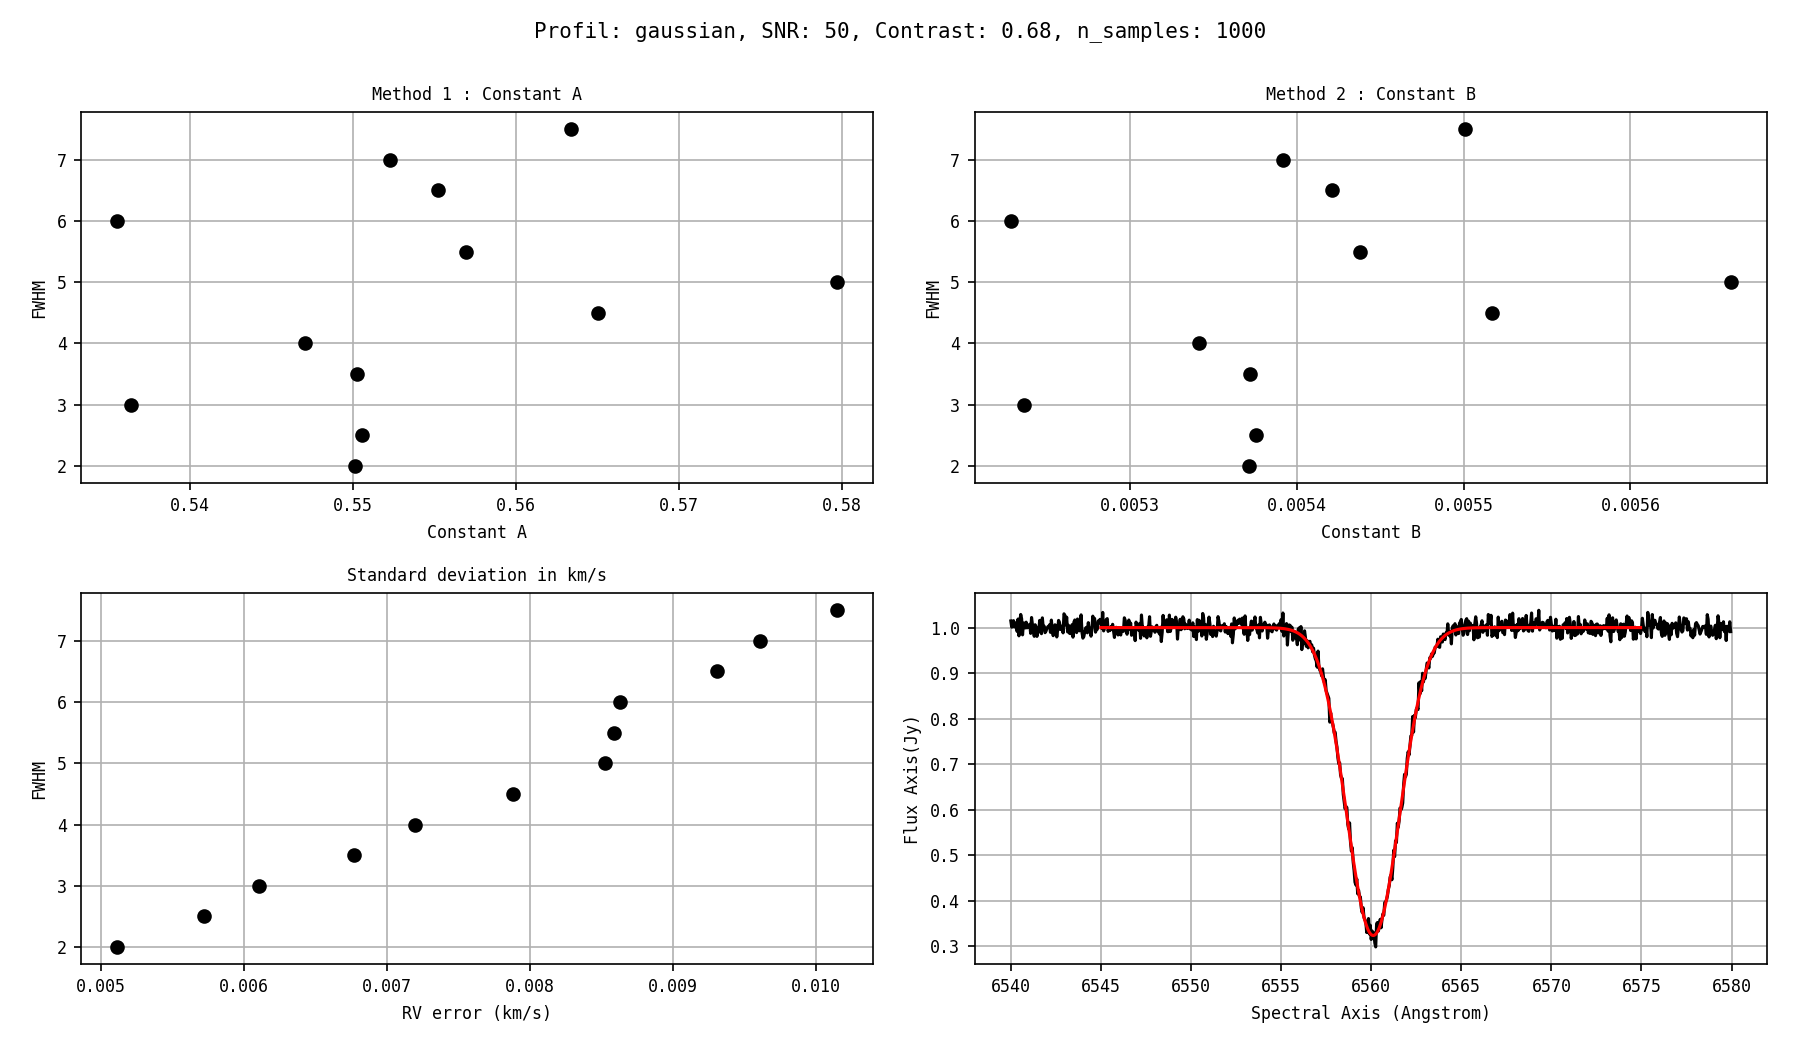
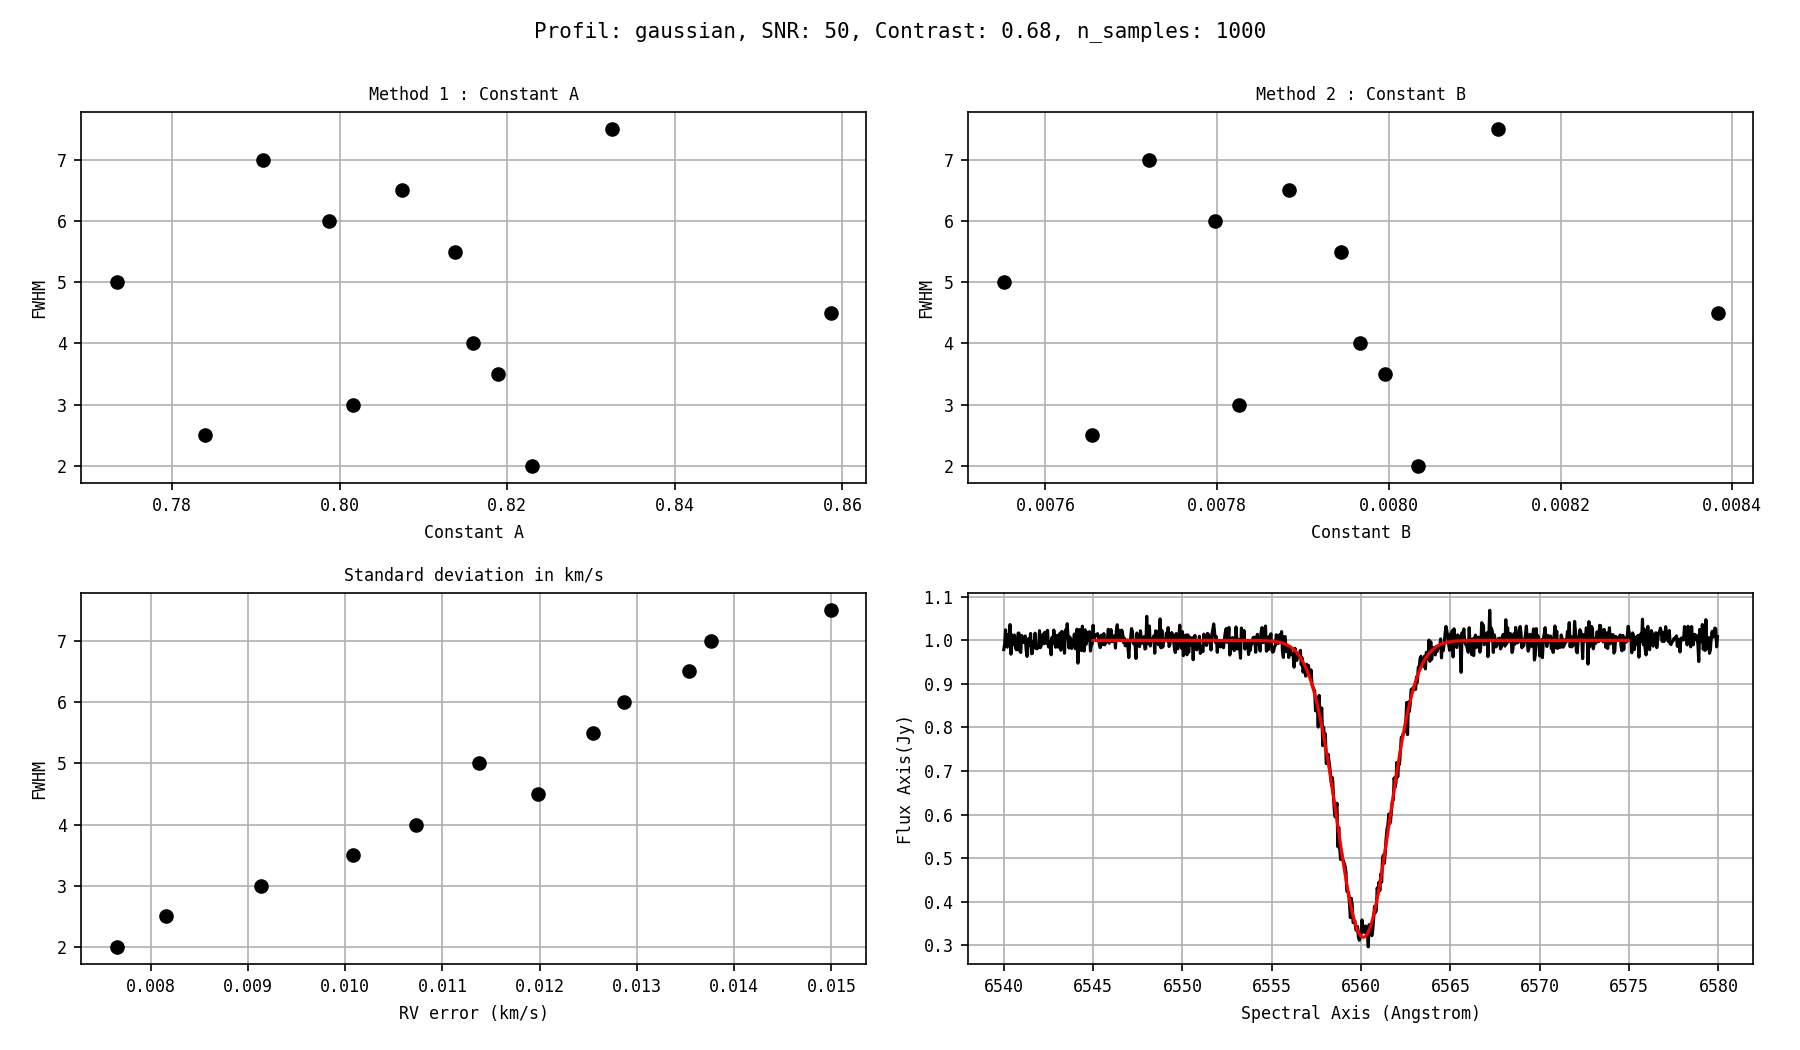
fix errors

diff --git a/sandbox/rv_error.py b/sandbox/rv_error.py
@@ -23,7 +23,7 @@ def computeConstA_Method1(rv, fwhm, snr, contrast, n):
     return rv / (fwhm / (contrast * snr * np.sqrt(n)))
 
 
-def computeConstB_Method2(rv, fwhm, p, snr, contrast, center):
+def computeConstB_Method2(rv, fwhm, p, snr, contrast):
     """
     return a constant for a given radial velocity error in km.s-1 (BOUCHY)
     """
@@ -67,13 +67,13 @@ def findCenterOfLine(spectrum1d, fwhm, model_type='gaussian'):
 #
 
 
-def runMonteCarlo(n_samples, contrast, snr, center, fwhm, model, ax, first):
+def runMonteCarlo(n_samples, spectral_sample_value, contrast, snr, center, fwhm, model, ax, first):
     """
     Generate n_samples synthetic spectra with random noise and return standard deviation
     """
 
     wavelength_window = (6540, 6580)
-    scale = contrast / snr
+    scale = 1 / snr
 
     match model:
         case 'gaussian':
@@ -83,7 +83,8 @@ def runMonteCarlo(n_samples, contrast, snr, center, fwhm, model, ax, first):
             line = models.Lorentz1D(-contrast, x_0=center, fwhm=fwhm)
     #
 
-    x = np.arange(wavelength_window[0], wavelength_window[1], .05)
+    x = np.arange(wavelength_window[0],
+                  wavelength_window[1], spectral_sample_value)
 
     errors = []
 
@@ -111,6 +112,7 @@ def getRV(std, lambda_ref=6562.82):
 
 
 def run(model, n_samples, snr):
+    spectral_sample_value = .1
     contrast = .68
     center = 6560.123
     fwhm = np.arange(2, 8, .5)
@@ -119,27 +121,29 @@ def run(model, n_samples, snr):
     for i in range(len(fwhm)):
         # run monteCarlo
         std = runMonteCarlo(
-            n_samples, contrast, snr, center, fwhm[i], model=model, ax=ax4, first=i == 1)
+            n_samples, spectral_sample_value, contrast, snr, center, fwhm[i], model=model, ax=ax4, first=i == 1)
 
         # compute A constant with first method
         a = computeConstA_Method1(
-            getRV(std), getRV(fwhm[i]), snr, contrast, fwhm[i]/.05)
+            getRV(std), getRV(fwhm[i], center), snr, contrast, fwhm[i]/spectral_sample_value)
 
         # compure B constant with second method
         b = computeConstB_Method2(
-            getRV(std), getRV(fwhm[i]), snr, getRV(.05), contrast, center)
+            getRV(std), getRV(fwhm[i], center), getRV(spectral_sample_value), snr, contrast)
 
-        print(f'rms : {std}  a : {a}  b : {b}')
+        print(f'std : {std}  a : {a}  b : {b}')
         ax1.plot(a, fwhm[i], "ko")
         ax2.plot(b, fwhm[i], "ko")
         ax3.plot(std, fwhm[i], "ko")
         aa.append(a.value)
         bb.append(b.value)
 
-    ax1.set_title(f'Method 1 : Constant A', fontname='monospace', size=8)
+    ax1.set_title(
+        f'Method 1 : Constant A, mean={np.mean(aa)}', fontname='monospace', size=8)
     ax1.set_xlabel('Constant A', fontname='monospace', size=8)
     ax1.set_ylabel('FWHM', fontname='monospace', size=8)
-    ax2.set_title(f'Method 2 : Constant B', fontname='monospace', size=8)
+    ax2.set_title(
+        f'Method 2 : Constant B, mean={np.mean(bb)}', fontname='monospace', size=8)
     ax2.set_xlabel('Constant B', fontname='monospace', size=8)
     ax2.set_ylabel('FWHM', fontname='monospace', size=8)
     ax3.set_title(f'Standard deviation in km/s', fontname='monospace', size=8)
@@ -163,11 +167,11 @@ plt.rcParams['font.size'] = '8'
 plt.rcParams['font.family'] = 'monospace'
 
 # 1 run with gaussian model
-run('gaussian', 1000, snr=50)
-run('gaussian', 1000, snr=200)
-run('gaussian', 1000, snr=400)
+run('gaussian', 100, snr=50)
+run('gaussian', 100, snr=200)
+run('gaussian', 100, snr=400)
 
 # 2 run with lorentz model
-run('lorentz', 1000, snr=50)
-run('lorentz', 1000, snr=200)
-run('lorentz', 1000, snr=400)
+run('lorentz', 100, snr=50)
+run('lorentz', 100, snr=200)
+run('lorentz', 100, snr=400)
